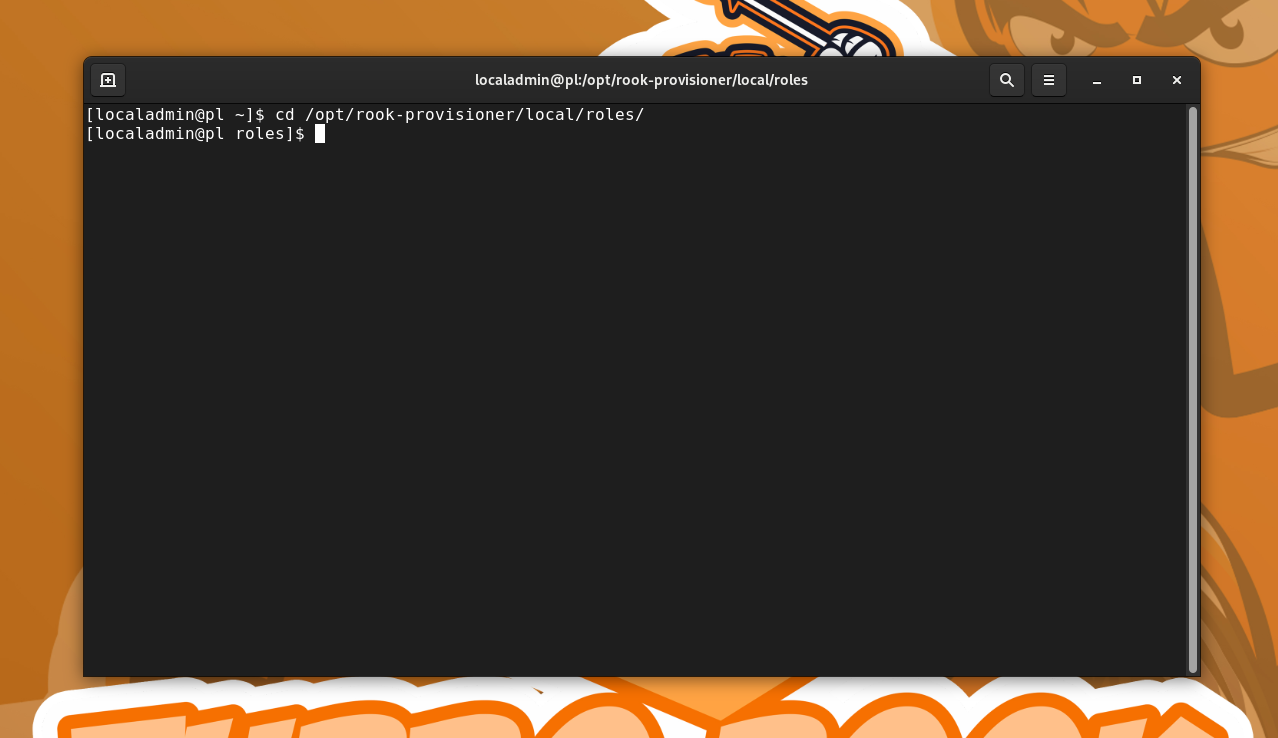
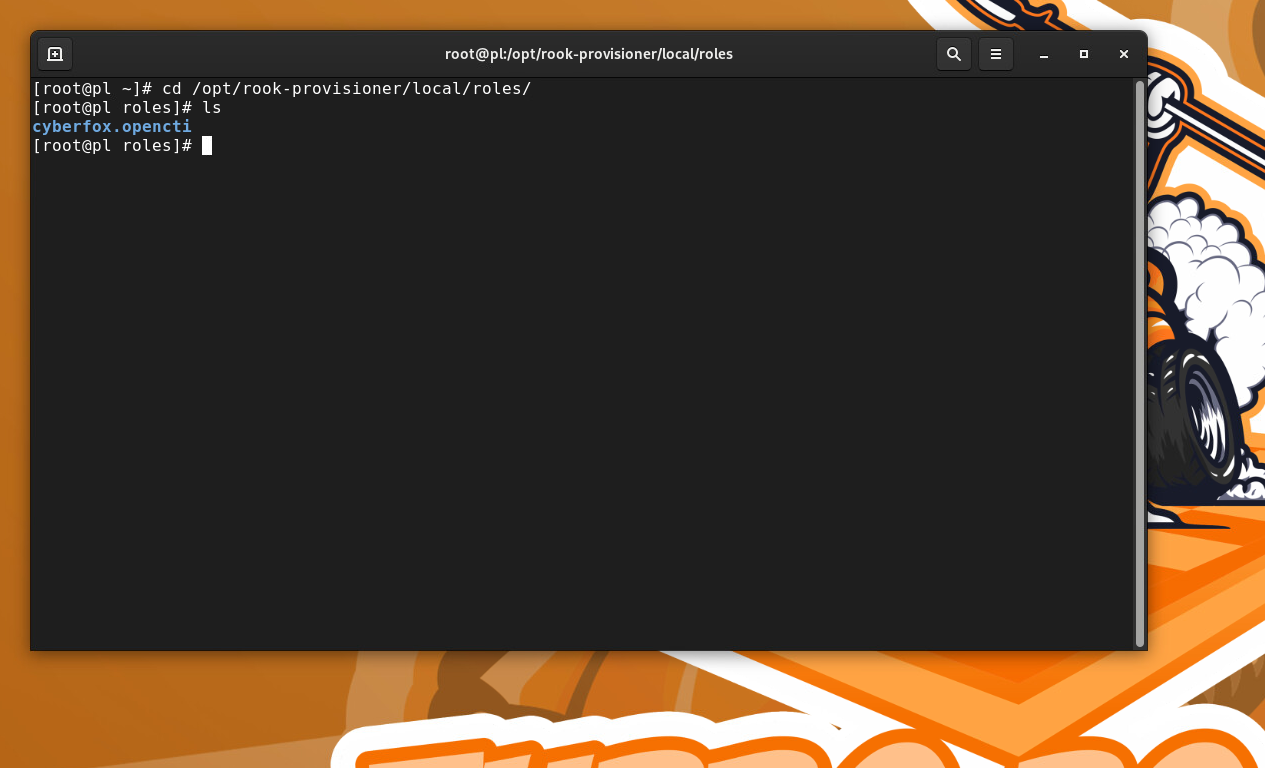
added module 6 refinement and walkthrough validation

Changed region(s): [[0.0, 0.0, 1.0, 1.0], [0.3391, 0.1558, 0.4008, 0.187]]

diff --git a/src/components/CourseModules/Module5.js b/src/components/CourseModules/Module5.js
@@ -145,22 +145,46 @@ const Module5 = () => {
           <h2>Integrating Ansible with OpenCTI for Streamlined Operations</h2>
           <p>With the OpenCTI platform now in place, CyberFox focuses on integrating Ansible for continuous automation and monitoring. The playbook becomes a vital tool, managing configurations and updates seamlessly.</p>
         </section>
+        
         <section className="content-section cyberpunk-btn">
-  <h2>The Cybernetic Symphony: Integrating ThreatFox</h2>
-  <p><i>(CyberFox, determined to enhance her network's threat intelligence, decides to integrate the ThreatFox connector into OpenCTI. This requires updating the environment configuration using the Jinja2 template.)</i></p>
-  
-  <p>“To weave this new stream of intelligence into our digital tapestry, we must update our environment settings,” CyberFox muses. She pulls up the `env.j2` file, a Jinja2 template that dynamically configures her OpenCTI environment.</p>
+        <h2>The Awakening of the Digital Sentinel</h2>
+        <p>As the digital forge of OpenCTI hums with newfound life, CyberFox stands amidst the glow of cascading data streams. "The symphony is incomplete," she muses, "for a sentinel must awaken to guard the gates of our cyber realm."</p>
+      </section>
 
-  <p>She adds the necessary entries for the ThreatFox connector:</p>
-  <pre><code className="code-block">
-    {`THREATFOX_CONNECTOR_ID={{ lookup('community.general.random_string') | ansible.builtin.to_uuid }}
-      THREATFOX_API_KEY={{ threatfox_api_key }}`}
-  </code></pre>
+      <section className="content-section cyberpunk-btn">
+        <h2>Summoning the Sentinel</h2>
+        <p>"In the heart of our digital domain," CyberFox declares, "we must inscribe the runes that will call forth the sentinel." She weaves the incantations into the `env.j2` template:</p>
+        <pre><code className="code-block">{`
+          # Engraving the Sentinel's Runes
+          THREATFOX_CONNECTOR_ID={{ "{{" }} lookup('community.general.random_string') | ansible.builtin.to_uuid {{ "}}" }}
+          THREATFOX_API_KEY={{ "{{" }} lookup('community.general.random_string') | ansible.builtin.to_uuid {{ "}}" }}
+        `}</code></pre>
+        </section>
 
-  <p>“With these entries, the ThreatFox connector will seamlessly integrate into our OpenCTI platform, enriching it with real-time threat intelligence,” she declares, updating the file.</p>
+      <section className="content-section cyberpunk-btn">
+        <h2>The Sentinel's Covenant</h2>
+        <p>With the runes inscribed, CyberFox prepares to forge the covenant. "This covenant," she proclaims, "will be our shield against the storms of chaos."</p>
+        <pre><code className="code-block">
+          # The Sentinel's Awakening
+          - name: Integrate ThreatFox Connector
+            hosts: openctihost
+            tasks:
+              - name: Engrave the Sentinel's Runes
+                ansible.builtin.template:
+                  src: env.j2
+                  dest: /opt/opencti/.env
+        </code></pre>
+      </section>
 
-  <p><i>(After saving the changes to the `env.j2` template, CyberFox prepares to redeploy her OpenCTI environment, anticipating the influx of critical threat data from ThreatFox.)</i></p>
-</section>
+      <section className="content-section cyberpunk-btn">
+        <h2>The Convergence</h2>
+        <p>"Awaken, sentinel, and take your place among the guardians of our realm," CyberFox commands, initiating the playbook that integrates the sentinel into OpenCTI.</p>
+      </section>
+
+      <section className="content-section cyberpunk-btn">
+        <h2>Epilogue: The Symphony of Guardians</h2>
+        <p>The command center stands as a testament to CyberFox's mastery over the digital realm, now safeguarded by the vigilant sentinel - the ThreatFox connector.</p>
+      </section>
 
 
         {/* Section: Advanced Ansible Strategies */}

diff --git a/Module6-README.md b/Module6-README.md
@@ -9,9 +9,10 @@ On the Turbo Rook Provisioning Laptop:
 
    cd /opt/rook-provisioner/local/roles
 
-   Note: Local roles will override the roles used by Rook Engine by default.
+   Note: Local roles will override the roles used by Rook Engine by default. This is where we would add custom roles, however we have already added the `cyberfox.opencti` role to the Rook Engine.
+   **your Credentials are as follows in the image below**
 
-   ![Terminal access to local roles folder](http://cyberfox:8080/img/openCTI/1.%20Terminal%20optrook.png)
+   ![creds](http://cyberfox:8080/img/openCTI/creds.png)
 
 ### Adding your Role to the TURBO ROOK UI
 
@@ -101,7 +102,7 @@ We will now walk through the `Add Hardware` Pop up
 
    **Hypervisor IP Address**
 
-      Enter the IP Address of the Server you are going to provision
+      Enter the IP Address of the Server you are going to provision, if you are virtual we have hardcoded the IP address to `172.16.2.2` if you are are at PurpleForge, you can use the ipaddress issued to you by the TurboRook Provisioning Solutiomn.
 
    **Hypervisor Username**
 
@@ -147,6 +148,9 @@ On this screen select `Add New VM` on the left of the screen below your ESXi ins
    **Virtual Machine Properties**
 
       The Hypervisor dropdown will already be auto-populated with the `ESXi` already entered
+
+   **Add Additional NICs**
+      Choose VM Network from the dropdown
 
 ![Add Machine with ESXi](http://cyberfox:8080/img/openCTI/add%20machine%20with%20ESXi.png)
 
@@ -200,6 +204,15 @@ Select `Accept` on the EULA Agreement to begin.
 
 ![EULA](http://cyberfox:8080/img/openCTI/31.%20EULA.png)
 
-Lastly, you will be brought to the `Build Progress` page where you can monitor the progress of your deployment.
+You will be brought to the `Build Progress` page where you can monitor the progress of your deployment.
 
 ![Provisioning](http://cyberfox:8080/img/openCTI/32.%20provisioning.png)
+
+Whenyou are finished with the deployment you will be given a `Finished Deployment` screen with an IP Address to access your newly provisioned openCTI instance.
+![finisheddeployment](http://cyberfox:8080/img/openCTI/finisheddeployment.png)
+
+go to the IP address and you will be greeted with the openCTI login screen
+![loginscreen](http://cyberfox:8080/img/openCTI/loginscreen.png)
+
+You have now successfully provisioned a device with your newly added role! 
+```

diff --git a/README.md b/README.md
@@ -62,7 +62,10 @@ git config --global user.email "CyberFox@2077.git"
 ```bash
 sudo apt update && sudo apt install -y apt-transport-https ca-certificates curl software-properties-common && curl -fsSL https://get.docker.com | sudo bash - && sudo usermod -aG docker $USER && sudo systemctl enable docker && sudo systemctl start docker && source ~/.bashrc
 sudo apt install -y docker-compose
+sudo usermod -aG docker cyberfox
 ```
+After you install docker, you will need to log out and log back in to apply the changes to your user group. You can also use the following command to apply the changes without logging out:
+
 
 
 ## Course Modules
